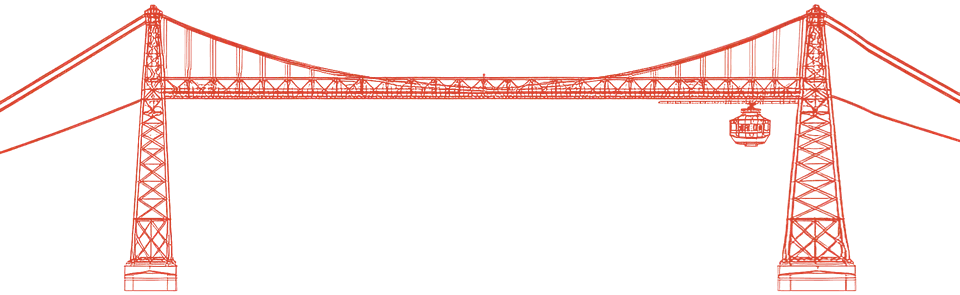
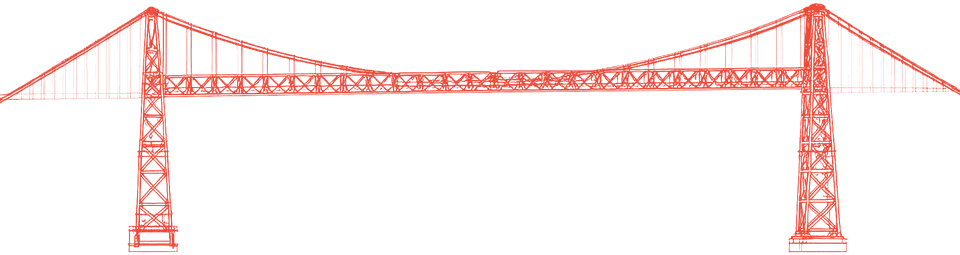
feat(integration): the bridge is traced from the photograph, as the lighthouse was, in the connectors' red
The founder, 2026-10-02:
- "la barcaza te la has inventado": the drawing had a gondola the photograph
  does not have. My own prompt had asked FLUX for one.
- "¿por qué no utilizas la misma técnica que con el faro?"
- The bridge's red was as faint as the seal's; it should be close to the
  connectors'.
- The names should be a subtle light grey, with no plate and no shadow.

Changes:
- The drawing is now FLUX.2 [dev] redrawing an edge sketch of the original
  photograph's bridge, seed 11, "keeping every line exactly where it is". The
  sketch is Canny edges inside the mask the bridge was removed with: every
  edge in the sky, only the tower legs below it. Both towers land within 7 px
  of the photograph's, so bridge_plan.py no longer needs to move the Las
  Arenas tower. The outline loses the car and keeps the measured plinths.
- The ink is #EC4A3A, beside the section's #EA4335, with a fuller alpha curve.
  The raster is rows 390–926 of the frame.
- Names are 68 % paper over the band: no plate, no shadow. Over the white
  façades they measure 2.3:1 at percentile 1. That is the subtle reading asked
  for, on a layer that is aria-hidden.
- Connectors: 15 at 1575 × 791, 17 at 1440 × 900, 18 at 3318 × 783, 8 on a
  phone.

Changed region(s): [[0.0, 0.0, 1.0, 0.9882], [0.9375, 0.4118, 1.0, 0.4941], [0.0, 0.4392, 0.0625, 0.5216]]

diff --git a/src/styles/hero-bridge.css b/src/styles/hero-bridge.css
@@ -41,12 +41,12 @@
 	mask-composite: intersect;
 }
 
-/* the drawing (bridge_plan.py): only the band its ink occupies, rows 378–998 of 1344, so it never
+/* the drawing (bridge_plan.py): only the band its ink occupies, rows 390–926 of 1344, so it never
    outsizes the banks as the largest paint */
 .bridge__plan {
 	position: absolute;
 	left: 0;
-	top: calc(378 / 1344 * 100%);
+	top: calc(390 / 1344 * 100%);
 	width: 100%;
 	height: auto;
 }
@@ -92,11 +92,9 @@
 	font-weight: 500;
 	line-height: 1;
 	letter-spacing: .02em;
-	/* a step under the excerpt's ink: the names must not outshine the copy (founder, 2026-10-02) */
-	color: var(--color-console-ink);
-	/* a plate, so it reads over the photograph (≥ 7.7:1; a halo gave 3.5) */
-	padding: 2px 5px;
-	background: color-mix(in srgb, var(--color-ground-dark) 90%, transparent);
+	/* a light grey, between grey and white: read, never louder than the copy; no plate, no shadow
+	   (founder, 2026-10-02: "que se lea de forma sutil") */
+	color: color-mix(in srgb, var(--color-secondary) 68%, var(--color-ground-dark));
 }
 .bridge__plug--up > span { bottom: calc(100% + 18px); }
 .bridge__plug--down > span { top: calc(100% + 18px); }

diff --git a/src/utils/hero-art.ts b/src/utils/hero-art.ts
@@ -134,7 +134,7 @@ export const HERO_BRIDGE = {
 	banks: "/assets/hero/int-puente.webp",
 	/** the same at 960 px for phones, where the frame is 125vw (a 412 px phone at 1.75 needs 900) */
 	banksSmall: "/assets/hero/int-puente-960.webp",
-	/** the bridge as an architect's drawing on the same frame, in the bridge's own red, cut to the band its ink occupies (rows 378–998 of 1344): WebP with alpha, 1320×406 */
+	/** the bridge as an architect's drawing on the same frame, in the bridge's own red, cut to the band its ink occupies (rows 390–926 of 1344): WebP with alpha, 1320×351 */
 	plan: "/assets/hero/int-puente-plan.webp",
 	planSmall: "/assets/hero/int-puente-plan-960.webp",
 };

diff --git a/docs/design/hero-rotativo/bridge_plan.py b/docs/design/hero-rotativo/bridge_plan.py
@@ -1,62 +1,34 @@
-"""The Vizcaya Bridge's drawing for the integration hero, from FLUX's elevation to the two WebPs.
+"""The Vizcaya Bridge's drawing for the integration hero, from FLUX's redrawing to the two WebPs.
 
-Input: the architect's elevation FLUX.2 [dev] drew from the photograph's bridge cut-out (seed 21,
-2016 x 1344, the photograph's own frame; not committed, it is regenerated by the prompt in the
-issue). Steps:
+The lighthouse's technique (#529): the drawing is traced from the ORIGINAL photograph's own edges, so
+it lands on the real bridge by construction. The input to FLUX.2 [dev] is an edge sketch of the
+bridge alone (Canny on the original, kept inside the mask the bridge was removed with: every edge in
+the sky, only the tower legs below it), redrawn "keeping every line exactly where it is", seed 11,
+2016 x 1344, the photograph's own frame. Its towers land within 7 px of the photograph's. Nothing is
+invented: an earlier prompt asked for the gondola, and FLUX drew one where the photograph has none
+(founder, 2026-10-02: "la barcaza te la has inventado"). FLUX's output is not committed; the sketch
+and the prompt are in the issue. Steps:
 
-1. ink to alpha: dark ink on white paper, a = clip((0.88 - grey) / 0.55, 0, 1);
-2. the Las Arenas tower is moved onto the photograph's: FLUX drew it about 10 px left at the top
-   and 45 px narrower at the base than the tower it replaces (landmarks in bridge.py), so each row
-   of it is stretched between the photograph's legs, fading back to the drawing 80 px either side;
-3. tinted a step under the section's red (#D8432F against #EA4335): the bridge and its connectors
-   read as one thing, and the drawing stands out on the band like the lighthouse (founder,
-   2026-10-02: "tiene que destacar… ambos colores bastante similares"; the deep #A8352B before it
-   barely showed through the veil). The stroke is the drawing's own, fine like the lighthouse's:
-   thickened, it read as a smudge;
-4. cut to the band the ink occupies (rows 378-998), so the drawing never outsizes the banks and
+1. ink to alpha: dark ink on white paper, a = clip((0.90 - grey) / 0.45, 0, 1);
+2. tinted close to the section's red (#EC4A3A against #EA4335): the bridge and its connectors read
+   as one thing, and it stands out on the band as the lighthouse does (founder, 2026-10-02: "el
+   rojo del puente tiene que tener más fuerza… similar al de las flechas");
+3. cut to the band the ink occupies (rows 390-926), so the drawing never outsizes the banks and
    never becomes the page's largest paint.
 
-    python3 docs/design/hero-rotativo/bridge_plan.py <flux-elevation.jpg>
+    python3 docs/design/hero-rotativo/bridge_plan.py <flux-redrawing.jpg>
 """
 import os, sys
 import numpy as np
 from PIL import Image
 
-RED = (0xD8, 0x43, 0x2F)
-TOP, BOTTOM = 378, 998
-# the Las Arenas tower's outer legs: the drawing's, measured on its alpha, and the photograph's (bridge.py)
-DRAWN = ((405, 1685, 1725), (870, 1670, 1753))
-PHOTO = ((405, 1692, 1736), (905, 1645, 1780))
-FADE = 80
-
-
-def legs(pair, y):
-    (y0, l0, r0), (y1, l1, r1) = pair
-    t = min(max((y - y0) / (y1 - y0), 0.0), 1.0)
-    return l0 + (l1 - l0) * t, r0 + (r1 - r0) * t
-
-
-def move_tower(a):
-    h, w = a.shape
-    out = a.copy()
-    xs = np.arange(w, dtype=np.float64)
-    for y in range(360, 1000):
-        ld, rd = legs(DRAWN, y)
-        lp, rp = legs(PHOTO, y)
-        src = ld + (xs - lp) * (rd - ld) / (rp - lp)
-        shift = src - xs
-        # full correction between the photograph's legs, fading to none FADE px outside them
-        k = np.clip(1 - np.maximum(lp - xs, xs - rp) / FADE, 0, 1)
-        k[(xs >= lp) & (xs <= rp)] = 1
-        out[y] = np.interp(xs + shift * k, xs, a[y])
-    return out
+RED = (0xEC, 0x4A, 0x3A)
+TOP, BOTTOM = 390, 926
 
 
 def main(src):
     grey = np.asarray(Image.open(src).convert("L"), dtype=np.float64) / 255
-    a = np.clip((0.88 - grey) / 0.55, 0, 1)
-    a = move_tower(a)
-    a = (a * 255).astype(np.uint8)
+    a = (np.clip((0.90 - grey) / 0.45, 0, 1) * 255).astype(np.uint8)
     rgba = np.dstack([np.full(a.shape + (3,), RED, np.uint8), a])
     band = Image.fromarray(rgba).crop((0, TOP, a.shape[1], BOTTOM))
     here = os.path.dirname(os.path.abspath(__file__))

diff --git a/docs/design/hero-rotativo/bridge.py b/docs/design/hero-rotativo/bridge.py
@@ -6,7 +6,7 @@ AI plate, so the drawing lands on the photograph; the lines themselves are
 straight segments and true parabolas, drawn here. The visible bridge is the
 architect's drawing (`public/assets/hero/int-puente-plan.webp`, FLUX.2 [dev]
 from the same photograph, on the same frame); this outline is what the hero
-reads at run time: the structure (towers, girder, the car with its trolley,
+reads at run time: the structure (towers, girder,
 the plinths) keeps under the title and the excerpt and off every connector's
 name. The lines (main cables, hangers, back-stays) are kept for reference and
 not measured. Straight segments only (M/L).
@@ -32,9 +32,8 @@ RC = [(1713, 398), (1580, 453), (1500, 481), (1420, 503), (1340, 522), (1296, ch
 # back-stays: doubled, from the tower tops out to the frame's edges
 LB = [((316, 404), (0, 607)), ((300, 588), (0, 716))]
 RB = [((1720, 404), (W, 590)), ((1738, 430), (W, 606)), ((1740, 584), (W, 676))]
-# what only the drawing has, measured on its alpha: the car and its trolley, the two plinths
-CAR = [(1528, 596, 1630, 690), (1380, 586, 1690, 598)]
-PLINTHS = [(260, 880, 372, 990), (1657, 905, 1771, 990)]
+# what only the drawing has, measured on its alpha: the two plinths
+PLINTHS = [(268, 880, 373, 919), (1656, 895, 1778, 919)]
 
 
 def lerp(a, b, t): return a + (b - a) * t
@@ -112,12 +111,12 @@ def main(out):
     back = " ".join(f'M{p[0]},{p[1]} L{q[0]},{q[1]}' for p, q in LB + RB)
     heavy = 'stroke-width="3.2"'
     light = 'stroke-width="1.7"'
-    car = " ".join(f'M{l},{t} L{r},{t} L{r},{b} L{l},{b} L{l},{t} L{r},{b} M{r},{t} L{l},{b}' for l, t, r, b in CAR + PLINTHS)
+    plinths = " ".join(f'M{l},{t} L{r},{t} L{r},{b} L{l},{b} L{l},{t} L{r},{b} M{r},{t} L{l},{b}' for l, t, r, b in PLINTHS)
     svg = (f'<svg xmlns="http://www.w3.org/2000/svg" viewBox="0 0 {W} {H}" fill="none" stroke="currentColor" '
            f'stroke-linecap="round" stroke-linejoin="round" aria-hidden="true">'
            f'<g class="b-towers"><path {heavy} d="{tower(LT)}"/><path {heavy} d="{tower(RT)}"/></g>'
            f'<g class="b-girder"><path {heavy} d="{girder()}"/></g>'
-           f'<g class="b-car"><path {heavy} d="{car}"/></g>'
+           f'<g class="b-plinths"><path {heavy} d="{plinths}"/></g>'
            f'<g class="b-cables"><path {heavy} d="{lc}"/><path {heavy} d="{rc}"/></g>'
            f'<g class="b-hangers"><path {light} d="{lh} {rh}"/></g>'
            f'<g class="b-stays"><path {light} d="{back}"/></g>'

diff --git a/docs/design/hero-rotativo/README.md b/docs/design/hero-rotativo/README.md
@@ -83,7 +83,7 @@ column, `cdn-faro-720.webp` and `cdn-faro-plan-660.webp`). The photograph is not
 | `cdn-faro.webp` | Faro de Cabo Peñas, Gozón, Asturias (cropped, antenna mast painted out, cut out to the building for the dark band) | [Einaz80, Wikimedia Commons, "Cape Penas Lighthouse.jpg"](https://commons.wikimedia.org/wiki/File:Cape_Penas_Lighthouse.jpg) | CC BY-SA 4.0 |
 | `cdn-faro-plan.webp` | A line drawing generated from the photograph's cutout (Workers AI, FLUX.2 [dev]; the pipeline is in the design thread of #529) | derivative of the above | CC BY-SA 4.0 |
 | `int-puente.webp`, `int-puente-960.webp` | The Vizcaya Bridge between Portugalete and Las Arenas, seen from Portugalete: the bridge and the sky taken out (Workers AI, FLUX.2 [dev] as a donor inside a mask cut from the difference; the original's own pixels everywhere else), cut off just under the tug | [Ebaki, Wikimedia Commons, "Bizkaia zubia - Puente Bizkaia.jpg"](https://commons.wikimedia.org/wiki/File:Bizkaia_zubia_-_Puente_Bizkaia.jpg) | CC BY-SA 4.0 |
-| `int-puente-plan.webp`, `int-puente-plan-960.webp` | The bridge as an architect's elevation, on the same frame (Workers AI, FLUX.2 [dev] from the photograph's bridge cut-out, seed 21), the Las Arenas tower moved onto the photograph's, ink to alpha a step under the section's red (#D8432F), cut to the band the ink occupies — `bridge_plan.py` | derivative of the above | CC BY-SA 4.0 |
+| `int-puente-plan.webp`, `int-puente-plan-960.webp` | The bridge as an architect's elevation, on the same frame (Workers AI, FLUX.2 [dev] redrawing an edge sketch of the original photograph's bridge, seed 11, so it lands on the real bridge), ink to alpha close to the section's red (#EC4A3A), cut to the band the ink occupies — `bridge_plan.py` | derivative of the above | CC BY-SA 4.0 |
 | `src/assets/hero/int-puente.svg` | The bridge's outline, built by `bridge.py` from points measured on that photograph: never drawn, the hero measures it to keep the drawing off the copy | derivative of the above | CC BY-SA 4.0 |
 
 CC BY-SA asks for attribution where the work is used and share-alike on derivatives. The
